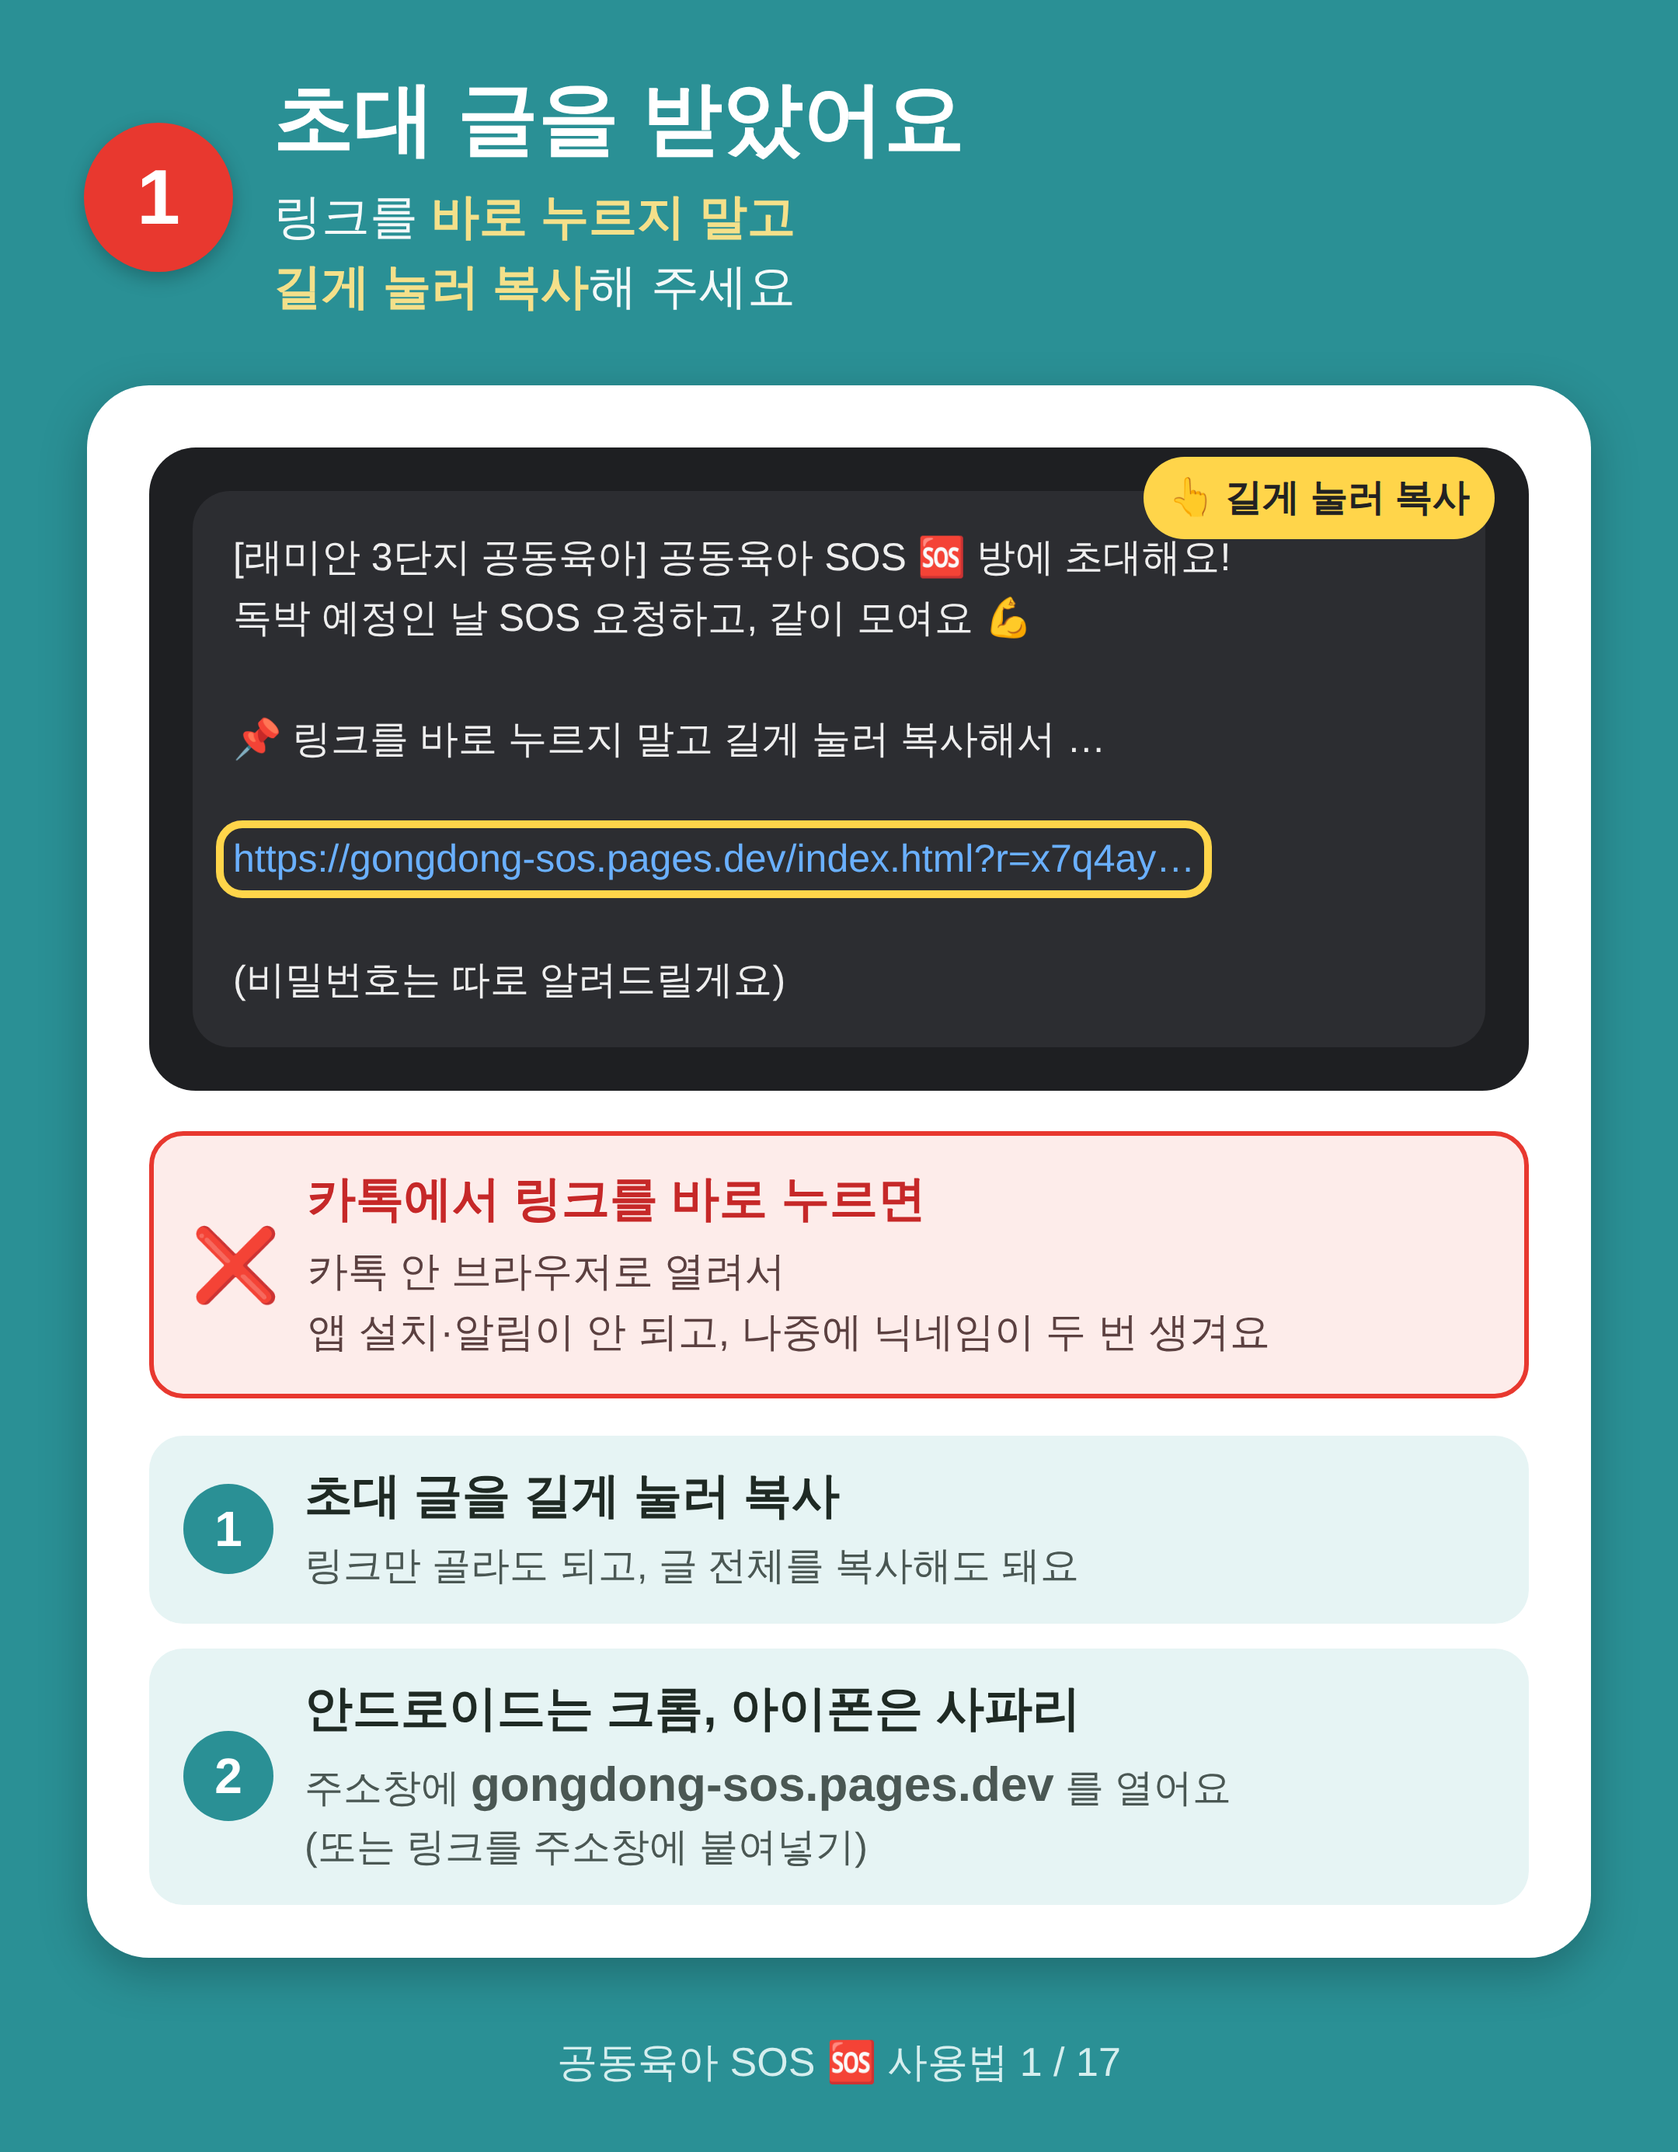
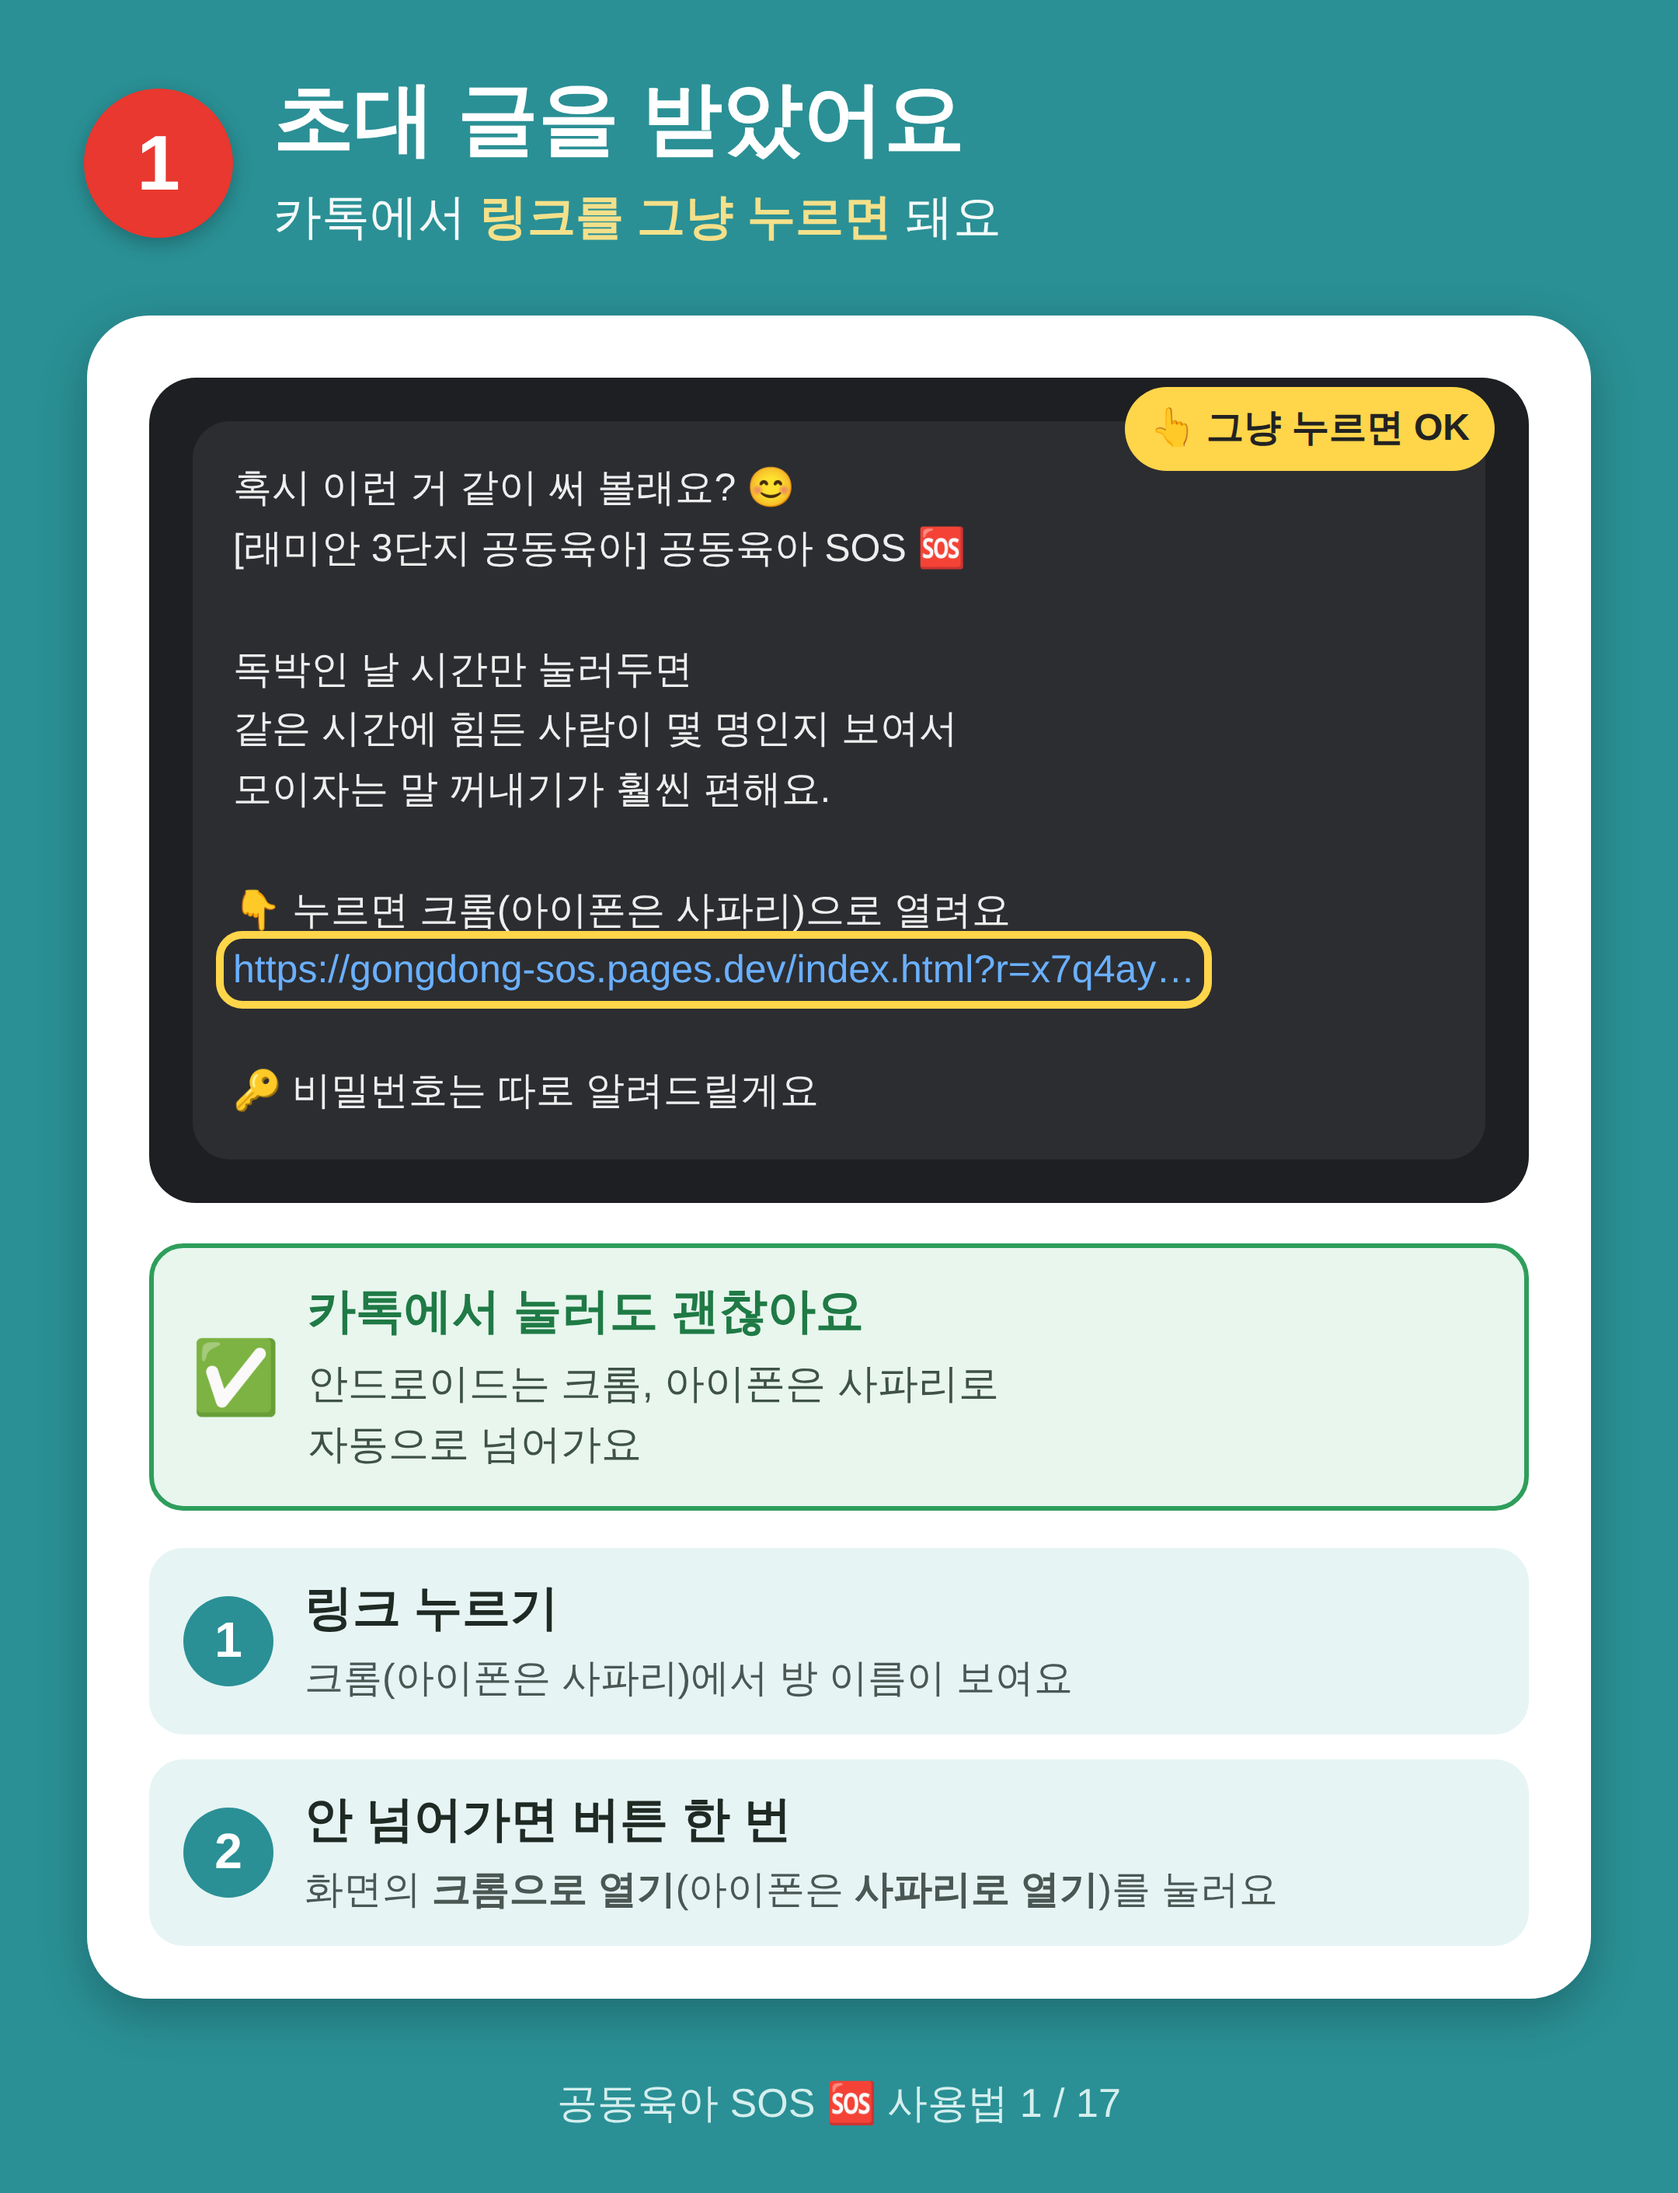
Friendlier invite message; guide slide 1 now says just tap the link
Claude-Session: https://claude.ai/code/session_01EFizHcDdWswyQN5TmKwWHe

diff --git a/sos/safety.html b/sos/safety.html
@@ -8,14 +8,14 @@
 <link rel="preconnect" href="https://fonts.gstatic.com" crossorigin>
 <link rel="stylesheet" href="https://fonts.googleapis.com/css2?family=IBM+Plex+Sans+KR:wght@400;500;600;700&display=swap">
 <link rel="icon" href="assets/icon.svg" type="image/svg+xml">
-<link rel="manifest" href="manifest.webmanifest?v=202610061214">
+<link rel="manifest" href="manifest.webmanifest?v=202610070335">
 <meta name="theme-color" content="#2a9095">
 <link rel="apple-touch-icon" href="assets/icon-sos-180.png">
 <meta name="apple-mobile-web-app-capable" content="yes">
 <meta name="mobile-web-app-capable" content="yes">
 <meta name="apple-mobile-web-app-title" content="공동육아 SOS">
-<link rel="stylesheet" href="assets/common.css?v=202610061214">
-<script src="assets/gate.js?v=202610061214"></script>
+<link rel="stylesheet" href="assets/common.css?v=202610070335">
+<script src="assets/gate.js?v=202610070335"></script>
 </head>
 <body>
 <div class="wrap single">
@@ -135,8 +135,8 @@
 <script src="https://www.gstatic.com/firebasejs/10.12.0/firebase-auth-compat.js"></script>
 <script src="https://www.gstatic.com/firebasejs/10.12.0/firebase-firestore-compat.js"></script>
 <script src="https://www.gstatic.com/firebasejs/10.12.0/firebase-messaging-compat.js"></script>
-<script src="assets/common.js?v=202610061214"></script>
-<script src="assets/push.js?v=202610061214"></script>
+<script src="assets/common.js?v=202610070335"></script>
+<script src="assets/push.js?v=202610070335"></script>
 <script>
 document.getElementById('deleteMe').addEventListener('click', async e => {
   const owning = sosRooms().filter(r => r.owner).map(r => r.name);   // 내가 방장인 방이 있으면 먼저 알려 줘요

diff --git a/sos/index.html b/sos/index.html
@@ -9,14 +9,14 @@
 <link rel="preconnect" href="https://fonts.gstatic.com" crossorigin>
 <link rel="stylesheet" href="https://fonts.googleapis.com/css2?family=IBM+Plex+Sans+KR:wght@400;500;600;700&display=swap">
 <link rel="icon" href="assets/icon.svg" type="image/svg+xml">
-<link rel="manifest" href="manifest.webmanifest?v=202610061214">
+<link rel="manifest" href="manifest.webmanifest?v=202610070335">
 <meta name="theme-color" content="#2a9095">
 <link rel="apple-touch-icon" href="assets/icon-sos-180.png">
 <meta name="apple-mobile-web-app-capable" content="yes">
 <meta name="mobile-web-app-capable" content="yes">
 <meta name="apple-mobile-web-app-title" content="공동육아 SOS">
-<link rel="stylesheet" href="assets/common.css?v=202610061214">
-<script src="assets/gate.js?v=202610061214"></script>
+<link rel="stylesheet" href="assets/common.css?v=202610070335">
+<script src="assets/gate.js?v=202610070335"></script>
 </head>
 <body>
 <div class="wrap single">
@@ -84,8 +84,8 @@
 <script src="https://www.gstatic.com/firebasejs/10.12.0/firebase-auth-compat.js"></script>
 <script src="https://www.gstatic.com/firebasejs/10.12.0/firebase-firestore-compat.js"></script>
 <script src="https://www.gstatic.com/firebasejs/10.12.0/firebase-messaging-compat.js"></script>
-<script src="assets/common.js?v=202610061214"></script>
-<script src="assets/push.js?v=202610061214"></script>
+<script src="assets/common.js?v=202610070335"></script>
+<script src="assets/push.js?v=202610070335"></script>
 <script>
 sosSummary();
 // 📲 설치 안내: 이미 앱으로 열었으면 숨기고, 내 휴대폰 종류의 안내를 먼저 펼쳐요

diff --git a/sos/meet.html b/sos/meet.html
@@ -8,14 +8,14 @@
 <link rel="preconnect" href="https://fonts.gstatic.com" crossorigin>
 <link rel="stylesheet" href="https://fonts.googleapis.com/css2?family=IBM+Plex+Sans+KR:wght@400;500;600;700&display=swap">
 <link rel="icon" href="assets/icon.svg" type="image/svg+xml">
-<link rel="manifest" href="manifest.webmanifest?v=202610061214">
+<link rel="manifest" href="manifest.webmanifest?v=202610070335">
 <meta name="theme-color" content="#2a9095">
 <link rel="apple-touch-icon" href="assets/icon-sos-180.png">
 <meta name="apple-mobile-web-app-capable" content="yes">
 <meta name="mobile-web-app-capable" content="yes">
 <meta name="apple-mobile-web-app-title" content="공동육아 SOS">
-<link rel="stylesheet" href="assets/common.css?v=202610061214">
-<script src="assets/gate.js?v=202610061214"></script>
+<link rel="stylesheet" href="assets/common.css?v=202610070335">
+<script src="assets/gate.js?v=202610070335"></script>
 </head>
 <body>
 <div class="wrap single">
@@ -69,8 +69,8 @@
 <script src="https://www.gstatic.com/firebasejs/10.12.0/firebase-auth-compat.js"></script>
 <script src="https://www.gstatic.com/firebasejs/10.12.0/firebase-firestore-compat.js"></script>
 <script src="https://www.gstatic.com/firebasejs/10.12.0/firebase-messaging-compat.js"></script>
-<script src="assets/common.js?v=202610061214"></script>
-<script src="assets/push.js?v=202610061214"></script>
-<script src="assets/meet.js?v=202610061214"></script>
+<script src="assets/common.js?v=202610070335"></script>
+<script src="assets/push.js?v=202610070335"></script>
+<script src="assets/meet.js?v=202610070335"></script>
 </body>
 </html>

diff --git a/sos/play.html b/sos/play.html
@@ -8,14 +8,14 @@
 <link rel="preconnect" href="https://fonts.gstatic.com" crossorigin>
 <link rel="stylesheet" href="https://fonts.googleapis.com/css2?family=IBM+Plex+Sans+KR:wght@400;500;600;700&display=swap">
 <link rel="icon" href="assets/icon.svg" type="image/svg+xml">
-<link rel="manifest" href="manifest.webmanifest?v=202610061214">
+<link rel="manifest" href="manifest.webmanifest?v=202610070335">
 <meta name="theme-color" content="#2a9095">
 <link rel="apple-touch-icon" href="assets/icon-sos-180.png">
 <meta name="apple-mobile-web-app-capable" content="yes">
 <meta name="mobile-web-app-capable" content="yes">
 <meta name="apple-mobile-web-app-title" content="공동육아 SOS">
-<link rel="stylesheet" href="assets/common.css?v=202610061214">
-<script src="assets/gate.js?v=202610061214"></script>
+<link rel="stylesheet" href="assets/common.css?v=202610070335">
+<script src="assets/gate.js?v=202610070335"></script>
 </head>
 <body>
 <div class="wrap">
@@ -135,8 +135,8 @@
 <script src="https://www.gstatic.com/firebasejs/10.12.0/firebase-app-compat.js"></script>
 <script src="https://www.gstatic.com/firebasejs/10.12.0/firebase-auth-compat.js"></script>
 <script src="https://www.gstatic.com/firebasejs/10.12.0/firebase-firestore-compat.js"></script>
-<script src="plays.js?v=202610061214"></script>
-<script src="assets/common.js?v=202610061214"></script>
-<script src="assets/play.js?v=202610061214"></script>
+<script src="plays.js?v=202610070335"></script>
+<script src="assets/common.js?v=202610070335"></script>
+<script src="assets/play.js?v=202610070335"></script>
 </body>
 </html>

diff --git a/sos/terms.html b/sos/terms.html
@@ -8,14 +8,14 @@
 <link rel="preconnect" href="https://fonts.gstatic.com" crossorigin>
 <link rel="stylesheet" href="https://fonts.googleapis.com/css2?family=IBM+Plex+Sans+KR:wght@400;500;600;700&display=swap">
 <link rel="icon" href="assets/icon.svg" type="image/svg+xml">
-<link rel="manifest" href="manifest.webmanifest?v=202610061214">
+<link rel="manifest" href="manifest.webmanifest?v=202610070335">
 <meta name="theme-color" content="#2a9095">
 <link rel="apple-touch-icon" href="assets/icon-sos-180.png">
 <meta name="apple-mobile-web-app-capable" content="yes">
 <meta name="mobile-web-app-capable" content="yes">
 <meta name="apple-mobile-web-app-title" content="공동육아 SOS">
-<link rel="stylesheet" href="assets/common.css?v=202610061214">
-<script src="assets/gate.js?v=202610061214"></script>
+<link rel="stylesheet" href="assets/common.css?v=202610070335">
+<script src="assets/gate.js?v=202610070335"></script>
 </head>
 <body>
 <div class="wrap single">
@@ -108,6 +108,6 @@
 <script src="https://www.gstatic.com/firebasejs/10.12.0/firebase-app-compat.js"></script>
 <script src="https://www.gstatic.com/firebasejs/10.12.0/firebase-auth-compat.js"></script>
 <script src="https://www.gstatic.com/firebasejs/10.12.0/firebase-firestore-compat.js"></script>
-<script src="assets/common.js?v=202610061214"></script>
+<script src="assets/common.js?v=202610070335"></script>
 </body>
 </html>

diff --git a/sos/assets/common.js b/sos/assets/common.js
@@ -428,7 +428,7 @@ function sosReport(kind, mid, cid){
   document.querySelectorAll('[data-room-name]').forEach(el => { el.textContent = ROOM.name; });
   const inv = document.querySelector('[data-invite]');
   if(inv) inv.addEventListener('click', async () => {
-    const text = `[${ROOM.name}] 공동육아 SOS 🆘 방에 초대해요!\n독박 예정인 날 SOS 요청하고, 같이 모여요 💪\n\n📌 링크를 누르면 크롬으로 열려요.\n(아이폰은 사파리)\n\n${inviteUrl()}\n\n(비밀번호는 따로 알려드릴게요)`;
+    const text = `혹시 이런 거 같이 써 볼래요? 😊\n[${ROOM.name}] 공동육아 SOS 🆘\n\n독박인 날 시간만 눌러두면\n같은 시간에 힘든 사람이 몇 명인지 보여서\n모이자는 말 꺼내기가 훨씬 편해요.\n\n부담 없이 SOS만 눌러 놔도 돼요 🙌\n\n👇 누르면 크롬(아이폰은 사파리)으로 열려요\n${inviteUrl()}\n\n🔑 비밀번호는 따로 알려드릴게요`;
     if(navigator.share){ try{ await navigator.share({text}); return; }catch(e){ if(e.name === 'AbortError') return; } }
     try{ await navigator.clipboard.writeText(text); inv.textContent = '✅ 복사했어요! 단톡방에 붙여넣으세요'; setTimeout(() => { inv.textContent = '🔗 친구 초대하기'; }, 2500); }
     catch(e){ window.prompt('아래 글을 복사해서 단톡방에 붙여넣으세요.', text); }

diff --git a/sos/admin.html b/sos/admin.html
@@ -12,8 +12,8 @@
 <meta name="apple-mobile-web-app-capable" content="yes">
 <meta name="mobile-web-app-capable" content="yes">
 <meta name="apple-mobile-web-app-title" content="SOS 운영">
-<link rel="stylesheet" href="assets/common.css?v=202610061214">
-<script src="assets/gate.js?v=202610061214"></script>
+<link rel="stylesheet" href="assets/common.css?v=202610070335">
+<script src="assets/gate.js?v=202610070335"></script>
 <style>
 /* 운영자 화면: 숫자 타일 → 주간 막대 → 방 표. 단일 색(teal) 막대, 상태색은 경고에만 */
 body{padding-block:20px 60px}

diff --git a/sos/guide.html b/sos/guide.html
@@ -5,7 +5,7 @@
 <meta name="viewport" content="width=device-width,initial-scale=1,viewport-fit=cover">
 <title>사용법 · 공동육아 SOS</title>
 <link rel="icon" href="assets/icon.svg" type="image/svg+xml">
-<link rel="manifest" href="manifest.webmanifest?v=202610061214">
+<link rel="manifest" href="manifest.webmanifest?v=202610070335">
 <meta name="theme-color" content="#2a9095">
 <link rel="apple-touch-icon" href="assets/icon-sos-180.png">
 <style>
